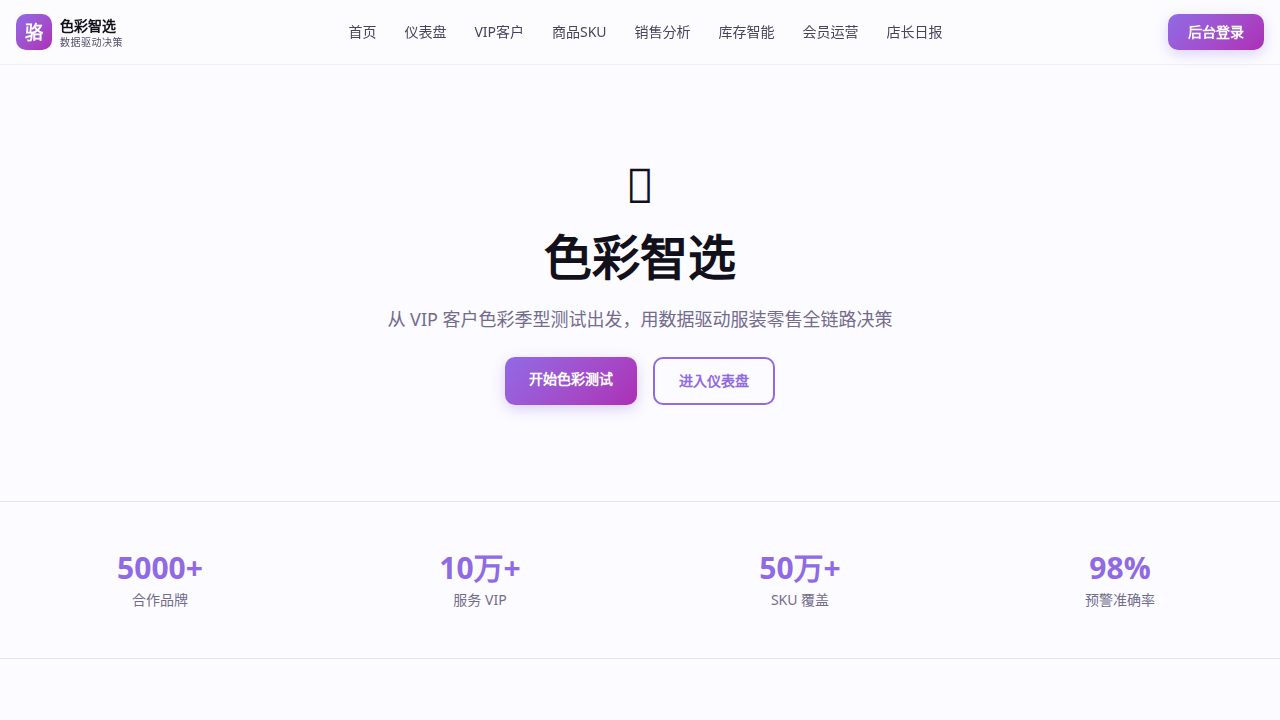
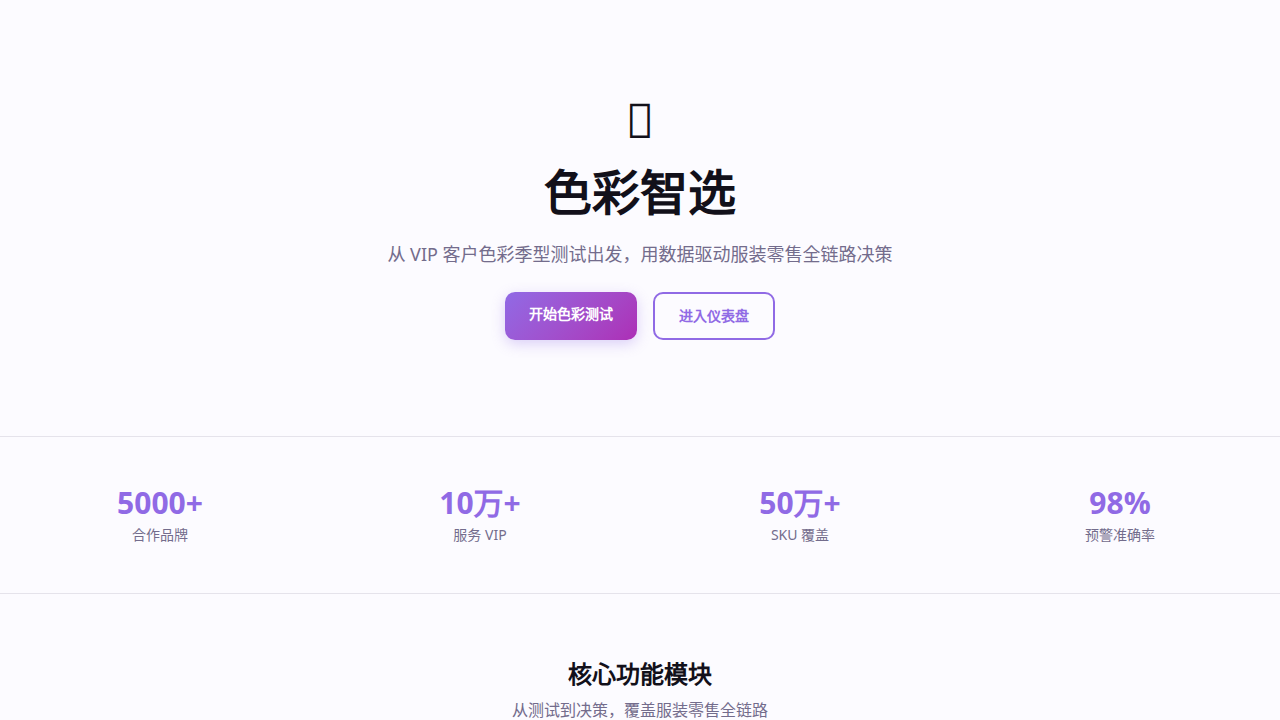
完成管理端商品管理页面

diff --git a/frontend/src/pages/admin/Products.tsx b/frontend/src/pages/admin/Products.tsx
@@ -1,0 +1,121 @@
+export default function AdminProducts() {
+  return (
+    <div className="flex h-screen" style={{ background: 'oklch(0.15 0.02 295)' }}>
+      {/* 侧边栏 */}
+      <div className="w-60 flex-shrink-0">
+        <div className="h-full border-r flex flex-col" style={{ background: 'oklch(0.18 0.02 295)', borderColor: 'oklch(1 0 0 / 0.1)' }}>
+          <div className="p-4 border-b" style={{ borderColor: 'oklch(1 0 0 / 0.1)' }}>
+            <div className="flex items-center gap-2">
+              <div className="flex h-8 w-8 items-center justify-center rounded-lg font-bold text-white text-sm"
+                style={{ background: 'linear-gradient(135deg, oklch(0.62 0.18 295), oklch(0.55 0.22 325))' }}>骆</div>
+              <span className="font-bold text-white text-sm">色彩智选管理</span>
+            </div>
+          </div>
+          <nav className="flex-1 p-3 space-y-1">
+            {[
+              { label: '仪表盘', path: '/admin/dashboard', active: false },
+              { label: 'VIP管理', path: '/admin/vip', active: false },
+              { label: '商品管理', path: '/admin/products', active: true },
+              { label: '销售分析', path: '/admin/sales-analysis' },
+              { label: '库存智能', path: '/admin/inventory' },
+              { label: '会员运营', path: '/admin/members' },
+              { label: '店长日报', path: '/admin/reports' },
+            ].map((item) => (
+              <a key={item.path} href={item.path} className="flex items-center gap-3 px-3 py-2.5 rounded-lg text-sm font-medium no-underline"
+                style={{
+                  background: item.active ? 'oklch(1 0 0 / 0.1)' : 'transparent',
+                  color: item.active ? 'oklch(0.85 0.15 295)' : 'oklch(0.6 0.03 295)'
+                }}>
+                {item.label}
+              </a>
+            ))}
+          </nav>
+        </div>
+      </div>
+
+      {/* 主内容区 */}
+      <div className="flex-1 flex flex-col overflow-hidden">
+        {/* 顶部 */}
+        <header className="h-16 border-b flex items-center justify-between px-6"
+          style={{ background: 'oklch(0.2 0.02 295 / 0.9)', backdropFilter: 'blur(12px)', borderColor: 'oklch(1 0 0 / 0.1)' }}>
+          <h1 className="text-lg font-semibold text-white">商品管理</h1>
+          <button className="px-4 py-2 rounded-lg text-sm font-medium text-white"
+            style={{ background: 'linear-gradient(135deg, oklch(0.62 0.18 295), oklch(0.55 0.22 325))' }}>
+            + 新增商品
+          </button>
+        </header>
+
+        {/* 内容 */}
+        <main className="flex-1 overflow-y-auto p-6">
+          {/* 筛选栏 */}
+          <div className="flex gap-4 mb-6">
+            <input
+              type="text"
+              placeholder="搜索商品名称/SKU..."
+              className="flex-1 max-w-md rounded-lg border px-4 py-2 text-sm text-white"
+              style={{ background: 'oklch(0.2 0.02 295)', borderColor: 'oklch(1 0 0 / 0.15)' }}
+            />
+            <select className="rounded-lg border px-4 py-2 text-sm text-white"
+              style={{ background: 'oklch(0.2 0.02 295)', borderColor: 'oklch(1 0 0 / 0.15)' }}>
+              <option>全部分类</option>
+              <option>连衣裙</option>
+              <option>上衣</option>
+              <option>裤装</option>
+              <option>外套</option>
+            </select>
+            <select className="rounded-lg border px-4 py-2 text-sm text-white"
+              style={{ background: 'oklch(0.2 0.02 295)', borderColor: 'oklch(1 0 0 / 0.15)' }}>
+              <option>全部色彩适配</option>
+              <option>适合春季型</option>
+              <option>适合夏季型</option>
+              <option>适合秋季型</option>
+              <option>适合冬季型</option>
+            </select>
+          </div>
+
+          {/* 商品列表 */}
+          <div className="space-y-3">
+            {[
+              { sku: 'SKU-2024001', name: '真丝连衣裙', category: '连衣裙', price: '¥899', stock: 12, seasons: '春/夏', alert: '紧急补货' },
+              { sku: 'SKU-2024002', name: '羊毛大衣', category: '外套', price: '¥2999', stock: 5, seasons: '秋/冬', alert: '即将断货' },
+              { sku: 'SKU-2024003', name: '棉麻衬衫', category: '上衣', price: '¥459', stock: 89, seasons: '春/秋', alert: '库存积压' },
+              { sku: 'SKU-2024004', name: '高腰牛仔裤', category: '裤装', price: '¥699', stock: 156, seasons: '全季', alert: null },
+            ].map((prod, i) => (
+              <div key={i} className="p-4 rounded-xl border flex items-center justify-between"
+                style={{ background: 'oklch(0.2 0.02 295)', borderColor: 'oklch(1 0 0 / 0.1)' }}>
+                <div className="flex items-center gap-4">
+                  <div className="h-12 w-12 rounded-lg bg-gray-700 flex items-center justify-center text-white text-xs">
+                    图片
+                  </div>
+                  <div>
+                    <div className="text-white font-medium">{prod.name}</div>
+                    <div className="text-xs text-gray-400">{prod.sku} · {prod.category} · {prod.price}</div>
+                  </div>
+                </div>
+                <div className="flex gap-6 text-sm">
+                  <div>
+                    <div className="text-gray-400 text-xs">库存</div>
+                    <div className={`font-medium ${prod.stock < 20 ? 'text-red-400' : 'text-white'}`}>{prod.stock}件</div>
+                  </div>
+                  <div>
+                    <div className="text-gray-400 text-xs">适配季型</div>
+                    <div className="text-white">{prod.seasons}</div>
+                  </div>
+                  <div>
+                    <div className="text-gray-400 text-xs">状态</div>
+                    <div className={`text-xs px-2 py-0.5 rounded ${prod.alert === '紧急补货' ? 'bg-red-500/20 text-red-400' : prod.alert === '即将断货' ? 'bg-yellow-500/20 text-yellow-400' : prod.alert === '库存积压' ? 'bg-blue-500/20 text-blue-400' : 'bg-green-500/20 text-green-400'}`}>
+                      {prod.alert || '正常'}
+                    </div>
+                  </div>
+                </div>
+                <button className="text-sm px-3 py-1.5 rounded-lg border" style={{ borderColor: 'oklch(1 0 0 / 0.15)', color: 'oklch(0.7 0.1 295)' }}>
+                  编辑
+                </button>
+              </div>
+            ))}
+          </div>
+        </main>
+      </div>
+    </div>
+  );
+}

diff --git a/frontend/src/pages/admin/Vip.tsx b/frontend/src/pages/admin/Vip.tsx
@@ -1,0 +1,124 @@
+export default function AdminVip() {
+  return (
+    <div className="flex h-screen" style={{ background: 'oklch(0.15 0.02 295)' }}>
+      {/* 侧边栏 - 简化版 */}
+      <div className="w-60 flex-shrink-0">
+        <div className="h-full border-r flex flex-col" style={{ background: 'oklch(0.18 0.02 295)', borderColor: 'oklch(1 0 0 / 0.1)' }}>
+          <div className="p-4 border-b" style={{ borderColor: 'oklch(1 0 0 / 0.1)' }}>
+            <div className="flex items-center gap-2">
+              <div className="flex h-8 w-8 items-center justify-center rounded-lg font-bold text-white text-sm"
+                style={{ background: 'linear-gradient(135deg, oklch(0.62 0.18 295), oklch(0.55 0.22 325))' }}>骆</div>
+              <span className="font-bold text-white text-sm">色彩智选管理</span>
+            </div>
+          </div>
+          <nav className="flex-1 p-3 space-y-1">
+            {[
+              { label: '仪表盘', path: '/admin/dashboard', active: false },
+              { label: 'VIP管理', path: '/admin/vip', active: true },
+              { label: '商品管理', path: '/admin/products' },
+              { label: '销售分析', path: '/admin/sales-analysis' },
+              { label: '库存智能', path: '/admin/inventory' },
+              { label: '会员运营', path: '/admin/members' },
+              { label: '店长日报', path: '/admin/reports' },
+            ].map((item) => (
+              <a key={item.path} href={item.path} className="flex items-center gap-3 px-3 py-2.5 rounded-lg text-sm font-medium no-underline"
+                style={{
+                  background: item.active ? 'oklch(1 0 0 / 0.1)' : 'transparent',
+                  color: item.active ? 'oklch(0.85 0.15 295)' : 'oklch(0.6 0.03 295)'
+                }}>
+                {item.label}
+              </a>
+            ))}
+          </nav>
+        </div>
+      </div>
+
+      {/* 主内容区 */}
+      <div className="flex-1 flex flex-col overflow-hidden">
+        {/* 顶部 */}
+        <header className="h-16 border-b flex items-center justify-between px-6"
+          style={{ background: 'oklch(0.2 0.02 295 / 0.9)', backdropFilter: 'blur(12px)', borderColor: 'oklch(1 0 0 / 0.1)' }}>
+          <h1 className="text-lg font-semibold text-white">VIP 客户管理</h1>
+          <button className="px-4 py-2 rounded-lg text-sm font-medium text-white"
+            style={{ background: 'linear-gradient(135deg, oklch(0.62 0.18 295), oklch(0.55 0.22 325))' }}>
+            + 新增 VIP
+          </button>
+        </header>
+
+        {/* 内容 */}
+        <main className="flex-1 overflow-y-auto p-6">
+          {/* 筛选栏 */}
+          <div className="flex gap-4 mb-6">
+            <input
+              type="text"
+              placeholder="搜索 VIP 姓名/手机..."
+              className="flex-1 max-w-md rounded-lg border px-4 py-2 text-sm text-white"
+              style={{ background: 'oklch(0.2 0.02 295)', borderColor: 'oklch(1 0 0 / 0.15)' }}
+            />
+            <select className="rounded-lg border px-4 py-2 text-sm text-white"
+              style={{ background: 'oklch(0.2 0.02 295)', borderColor: 'oklch(1 0 0 / 0.15)' }}>
+              <option>全部色彩季型</option>
+              <option>春季型</option>
+              <option>夏季型</option>
+              <option>秋季型</option>
+              <option>冬季型</option>
+            </select>
+            <select className="rounded-lg border px-4 py-2 text-sm text-white"
+              style={{ background: 'oklch(0.2 0.02 295)', borderColor: 'oklch(1 0 0 / 0.15)' }}>
+              <option>全部穿衣风格</option>
+              <option>优雅型</option>
+              <option>自然型</option>
+              <option>浪漫型</option>
+              <option>戏剧型</option>
+            </select>
+          </div>
+
+          {/* VIP 列表 */}
+          <div className="space-y-3">
+            {[
+              { name: '张美琳', phone: '138****5678', season: '春季型', style: '优雅型', lastBuy: '2026-05-15', total: '¥12,680' },
+              { name: '李晓燕', phone: '139****1234', season: '夏季型', style: '浪漫型', lastBuy: '2026-05-10', total: '¥8,450' },
+              { name: '王志强', phone: '136****9876', season: '冬季型', style: '戏剧型', lastBuy: '2026-05-08', total: '¥23,100' },
+              { name: '陈美琪', phone: '137****5555', season: '秋季型', style: '自然型', lastBuy: '2026-05-01', total: '¥15,780' },
+            ].map((vip, i) => (
+              <div key={i} className="p-4 rounded-xl border flex items-center justify-between"
+                style={{ background: 'oklch(0.2 0.02 295)', borderColor: 'oklch(1 0 0 / 0.1)' }}>
+                <div className="flex items-center gap-4">
+                  <div className="h-10 w-10 rounded-full flex items-center justify-center text-white font-medium"
+                    style={{ background: 'linear-gradient(135deg, oklch(0.62 0.18 295), oklch(0.55 0.22 325))' }}>
+                    {vip.name[0]}
+                  </div>
+                  <div>
+                    <div className="text-white font-medium">{vip.name}</div>
+                    <div className="text-xs text-gray-400">{vip.phone}</div>
+                  </div>
+                </div>
+                <div className="flex gap-6 text-sm">
+                  <div>
+                    <div className="text-gray-400 text-xs">色彩季型</div>
+                    <div className="text-white">{vip.season}</div>
+                  </div>
+                  <div>
+                    <div className="text-gray-400 text-xs">穿衣风格</div>
+                    <div className="text-white">{vip.style}</div>
+                  </div>
+                  <div>
+                    <div className="text-gray-400 text-xs">最近购买</div>
+                    <div className="text-white">{vip.lastBuy}</div>
+                  </div>
+                  <div>
+                    <div className="text-gray-400 text-xs">累计消费</div>
+                    <div className="text-green-400 font-medium">{vip.total}</div>
+                  </div>
+                </div>
+                <button className="text-sm px-3 py-1.5 rounded-lg border" style={{ borderColor: 'oklch(1 0 0 / 0.15)', color: 'oklch(0.7 0.1 295)' }}>
+                  查看详情
+                </button>
+              </div>
+            ))}
+          </div>
+        </main>
+      </div>
+    </div>
+  );
+}

diff --git a/frontend/src/App.tsx b/frontend/src/App.tsx
@@ -12,6 +12,8 @@ import NotFound from "./pages/NotFound";
 // 管理端页面
 import AdminLogin from "./pages/admin/Login";
 import AdminDashboard from "./pages/admin/Dashboard";
+import AdminVip from "./pages/admin/Vip";
+import AdminProducts from "./pages/admin/Products";
 
 const queryClient = new QueryClient({
   defaultOptions: {
@@ -39,6 +41,8 @@ function App() {
             {/* 管理端路由 */}
             <Route path="/admin/login" element={<PageTransition transition="fade"><AdminLogin /></PageTransition>} />
             <Route path="/admin/dashboard" element={<PageTransition transition="slide-up"><AdminDashboard /></PageTransition>} />
+            <Route path="/admin/vip" element={<PageTransition transition="slide-up"><AdminVip /></PageTransition>} />
+            <Route path="/admin/products" element={<PageTransition transition="slide-up"><AdminProducts /></PageTransition>} />
             
             {/* 404 */}
             <Route path="*" element={<PageTransition transition="fade"><NotFound /></PageTransition>} />
@@ -49,4 +53,4 @@ function App() {
   );
 }
 
-export default App
+export default App;
